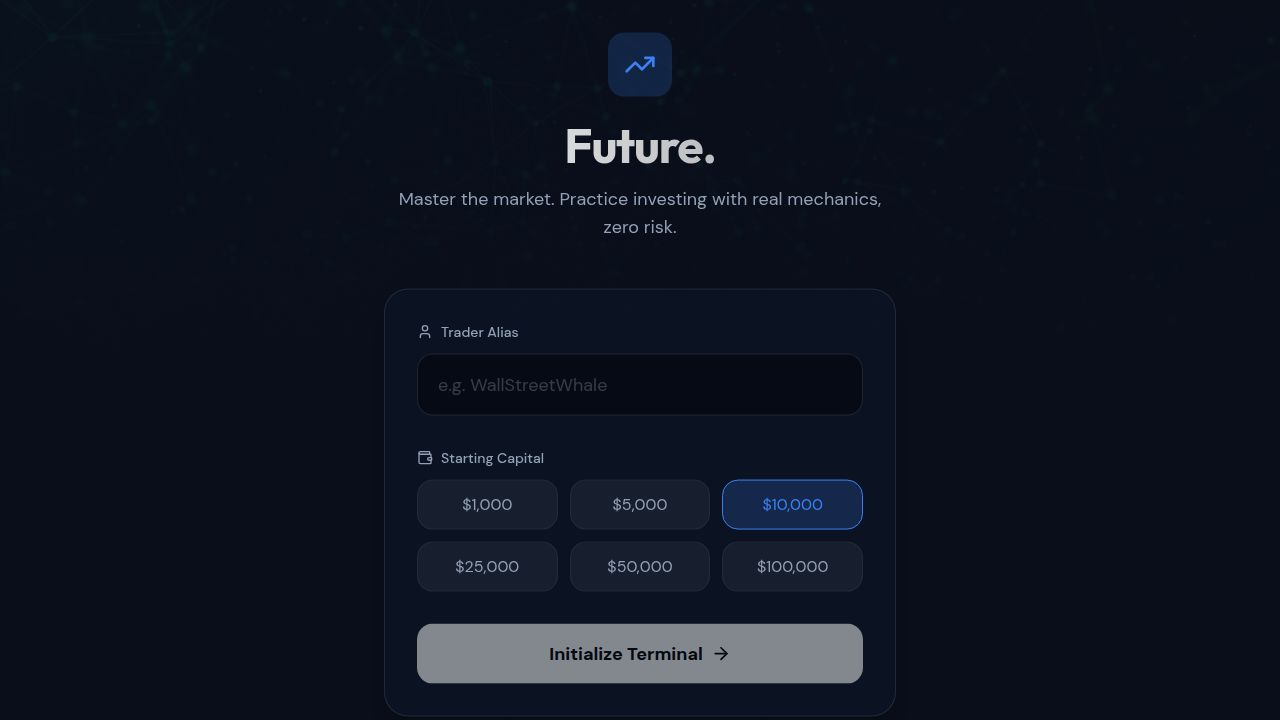
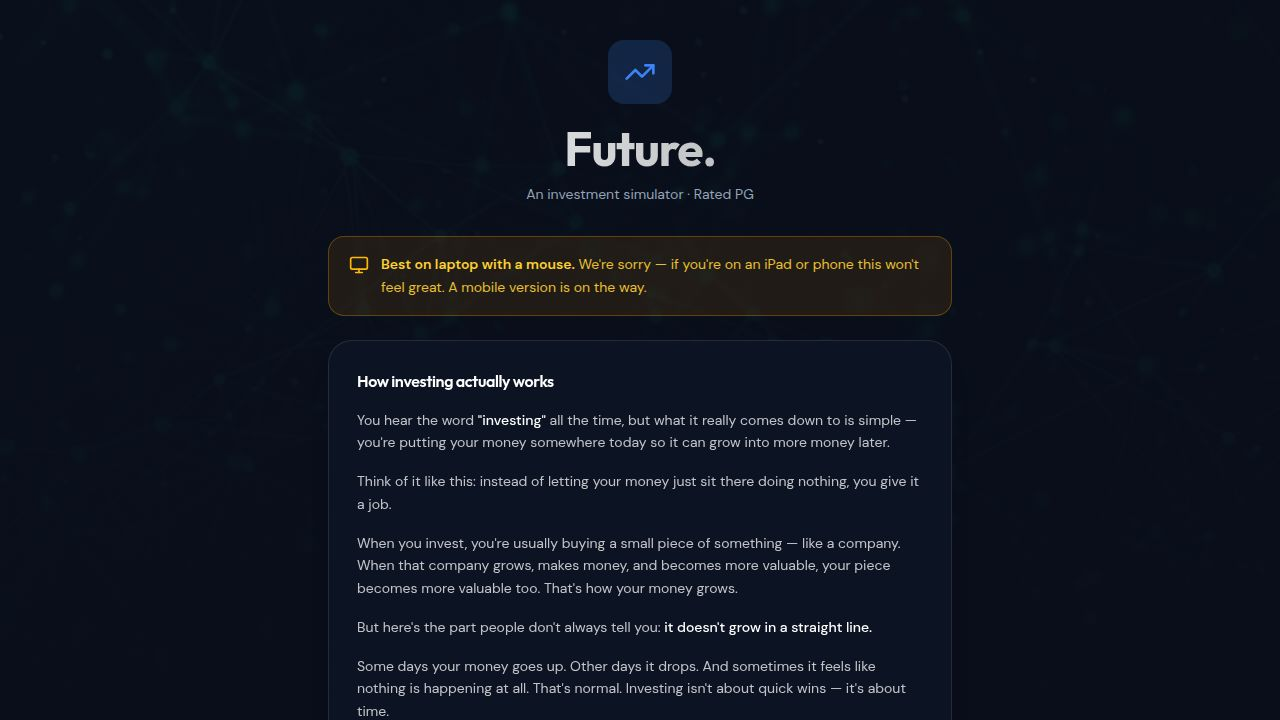
Add introductory screens explaining investing and device compatibility
Introduce two new screens: an intro screen with an investing explanation and a device compatibility notice, followed by the original game setup form.

Replit-Commit-Author: Agent
Replit-Commit-Session-Id: 9f7ad4cb-9b58-4544-9af6-8b12c8bfa14b
Replit-Commit-Checkpoint-Type: full_checkpoint
Replit-Commit-Event-Id: e548f361-a8b8-4ffe-b0bb-6d3fe8db931a
Replit-Commit-Screenshot-Url: https://storage.googleapis.com/screenshot-production-us-central1/1fc55918-5067-4787-9aa8-7074129aaffd/9f7ad4cb-9b58-4544-9af6-8b12c8bfa14b/VYrQRuv
Replit-Helium-Checkpoint-Created: true

diff --git a/artifacts/future/src/pages/Landing.tsx b/artifacts/future/src/pages/Landing.tsx
@@ -1,8 +1,8 @@
 import { useState, useEffect } from "react";
 import { useLocation } from "wouter";
-import { motion } from "framer-motion";
+import { motion, AnimatePresence } from "framer-motion";
 import { setSessionId, getSessionId } from "@/lib/session";
-import { ArrowRight, Wallet, User, TrendingUp, Loader2, Bitcoin, BarChart2, Layers } from "lucide-react";
+import { ArrowRight, Wallet, User, TrendingUp, Loader2, Bitcoin, BarChart2, Layers, Monitor, ChevronRight } from "lucide-react";
 import { formatCurrency, cn } from "@/lib/utils";
 
 const QUICK_AMOUNTS = [1000, 5000, 10000, 25000, 100000];
@@ -21,17 +21,88 @@ const MODE_COLORS: Record<MarketMode, string> = {
   mixed:  "border-purple-500 bg-purple-500/15 text-purple-400 shadow-[0_0_15px_rgba(168,85,247,0.25)]",
 };
 
-export function Landing() {
+function IntroScreen({ onContinue }: { onContinue: () => void }) {
+  return (
+    <motion.div
+      key="intro"
+      initial={{ opacity: 0, y: 20 }}
+      animate={{ opacity: 1, y: 0 }}
+      exit={{ opacity: 0, y: -20 }}
+      transition={{ duration: 0.6 }}
+      className="relative z-10 w-full max-w-2xl px-6 py-10"
+    >
+      <div className="text-center mb-8">
+        <div className="inline-flex items-center justify-center w-16 h-16 rounded-2xl bg-primary/20 text-primary mb-5 shadow-[0_0_30px_rgba(var(--primary),0.3)]">
+          <TrendingUp className="w-8 h-8" />
+        </div>
+        <h1 className="text-5xl font-display font-bold mb-3 tracking-tight text-transparent bg-clip-text bg-gradient-to-r from-white to-white/60">
+          Future.
+        </h1>
+        <p className="text-muted-foreground text-sm">An investment simulator · Rated PG</p>
+      </div>
+
+      {/* Device notice */}
+      <div className="flex items-start gap-3 bg-amber-500/10 border border-amber-500/30 rounded-2xl px-5 py-4 mb-6">
+        <Monitor className="w-5 h-5 text-amber-400 mt-0.5 shrink-0" />
+        <p className="text-sm text-amber-300/90 leading-relaxed">
+          <span className="font-semibold text-amber-300">Best on laptop with a mouse.</span> We're sorry — if you're on an iPad or phone this won't feel great. A mobile version is on the way.
+        </p>
+      </div>
+
+      {/* Investing explainer */}
+      <div className="glass-panel rounded-3xl p-7 space-y-4 text-sm text-white/75 leading-relaxed">
+        <h2 className="text-base font-semibold text-white">How investing actually works</h2>
+
+        <p>You hear the word <span className="text-white font-medium">"investing"</span> all the time, but what it really comes down to is simple — you're putting your money somewhere today so it can grow into more money later.</p>
+
+        <p>Think of it like this: instead of letting your money just sit there doing nothing, you give it a job.</p>
+
+        <p>When you invest, you're usually buying a small piece of something — like a company. When that company grows, makes money, and becomes more valuable, your piece becomes more valuable too. That's how your money grows.</p>
+
+        <p>But here's the part people don't always tell you: <span className="text-white font-medium">it doesn't grow in a straight line.</span></p>
+
+        <p>Some days your money goes up. Other days it drops. And sometimes it feels like nothing is happening at all. That's normal. Investing isn't about quick wins — it's about time.</p>
+
+        <div className="border-l-2 border-primary/50 pl-4 text-white/90 italic">
+          The real power comes from staying in the game.
+        </div>
+
+        <p>Because over time, your returns start earning their own returns. That's how small amounts turn into something meaningful — not overnight, but slowly, almost quietly. You won't notice it day to day, but years later, it adds up.</p>
+
+        <p>You also need to understand this: <span className="text-white font-medium">risk is part of the deal.</span></p>
+
+        <p>If you want your money to grow, you have to accept that it will sometimes go backwards. The mistake most people make is reacting emotionally — pulling out when things drop, and jumping in when things are already high.</p>
+
+        <div className="border-l-2 border-emerald-500/50 pl-4 text-white/90 italic">
+          Investing rewards patience, not panic.
+        </div>
+
+        <p>In real life, it often feels boring. You invest, you wait, you doubt it, you keep going. There's no constant excitement. Most of the time, it's just consistency.</p>
+
+        <p>You're not trying to get rich in a moment — you're building something over time. Something steady. Something that works for you in the background while you live your life.</p>
+
+        <p className="text-white/90">So think of investing as a <span className="text-white font-medium">long-term relationship with your money</span> — one where discipline matters more than timing, and staying consistent matters more than being perfect.</p>
+
+        <p className="text-white font-medium">That's how it really works.</p>
+      </div>
+
+      <button
+        onClick={onContinue}
+        className="mt-6 w-full py-4 rounded-xl bg-white text-black font-bold text-lg hover:bg-white/90 transition-all hover:shadow-[0_0_30px_rgba(255,255,255,0.2)] hover:-translate-y-1 active:translate-y-0 flex items-center justify-center gap-2"
+      >
+        I understand — let's invest <ChevronRight className="w-5 h-5" />
+      </button>
+    </motion.div>
+  );
+}
+
+function SetupScreen() {
   const [, setLocation] = useLocation();
   const [name, setName] = useState("");
   const [cashInput, setCashInput] = useState("10000");
   const [mode, setMode] = useState<MarketMode>("stocks");
   const [isLoading, setIsLoading] = useState(false);
   const [error, setError] = useState<string | null>(null);
-
-  useEffect(() => {
-    if (getSessionId()) setLocation("/dashboard");
-  }, [setLocation]);
 
   const parsedCash = (() => {
     const n = parseFloat(cashInput.replace(/,/g, ""));
@@ -63,6 +134,133 @@ export function Landing() {
   };
 
   return (
+    <motion.div
+      key="setup"
+      initial={{ opacity: 0, y: 20 }}
+      animate={{ opacity: 1, y: 0 }}
+      exit={{ opacity: 0, y: -20 }}
+      transition={{ duration: 0.6 }}
+      className="relative z-10 w-full max-w-xl p-8"
+    >
+      <div className="text-center mb-10">
+        <div className="inline-flex items-center justify-center w-16 h-16 rounded-2xl bg-primary/20 text-primary mb-6 shadow-[0_0_30px_rgba(var(--primary),0.3)]">
+          <TrendingUp className="w-8 h-8" />
+        </div>
+        <h1 className="text-5xl font-display font-bold mb-4 tracking-tight text-transparent bg-clip-text bg-gradient-to-r from-white to-white/60">
+          Future.
+        </h1>
+        <p className="text-lg text-muted-foreground">
+          Invest through 10 years of real market history — 2015 to 2025.
+        </p>
+        <p className="text-sm text-muted-foreground/60 mt-1">
+          Brexit. COVID. Ukraine. ChatGPT. Your portfolio will feel all of it.
+        </p>
+      </div>
+
+      <form onSubmit={handleSubmit} className="glass-panel p-8 rounded-3xl space-y-7">
+
+        {/* Market Mode */}
+        <div className="space-y-3">
+          <label className="text-sm font-medium text-muted-foreground flex items-center gap-2">
+            <Layers className="w-4 h-4" /> Market Type
+          </label>
+          <div className="grid grid-cols-3 gap-3">
+            {MODES.map((m) => (
+              <button key={m.id} type="button" onClick={() => setMode(m.id)}
+                className={`flex flex-col items-center gap-1.5 py-3 px-2 rounded-xl border font-medium transition-all ${
+                  mode === m.id ? MODE_COLORS[m.id] : "bg-white/5 border-white/5 text-muted-foreground hover:bg-white/10"
+                }`}
+              >
+                {m.icon}
+                <span className="text-sm font-semibold">{m.label}</span>
+                <span className="text-[10px] opacity-70 font-normal">{m.sub}</span>
+              </button>
+            ))}
+          </div>
+        </div>
+
+        {/* Trader Name */}
+        <div className="space-y-3">
+          <label className="text-sm font-medium text-muted-foreground flex items-center gap-2">
+            <User className="w-4 h-4" /> Trader Alias
+          </label>
+          <input
+            type="text" value={name} onChange={(e) => setName(e.target.value)}
+            placeholder="e.g. WallStreetWhale"
+            className="w-full bg-black/40 border border-white/10 rounded-xl px-5 py-3.5 text-base focus:outline-none focus:border-primary focus:ring-2 focus:ring-primary/20 transition-all placeholder:text-white/20"
+            required maxLength={20}
+          />
+        </div>
+
+        {/* Starting Capital */}
+        <div className="space-y-3">
+          <label className="text-sm font-medium text-muted-foreground flex items-center gap-2">
+            <Wallet className="w-4 h-4" /> Starting Capital
+          </label>
+          <div className="relative">
+            <span className="absolute left-4 top-1/2 -translate-y-1/2 text-muted-foreground font-bold text-lg">$</span>
+            <input
+              type="text"
+              inputMode="numeric"
+              value={cashInput}
+              onChange={(e) => setCashInput(e.target.value.replace(/[^0-9.]/g, ""))}
+              placeholder="Enter any amount"
+              className={cn(
+                "w-full bg-black/40 border rounded-xl pl-8 pr-4 py-3.5 text-base font-financial focus:outline-none focus:ring-2 transition-all placeholder:text-white/20",
+                parsedCash ? "border-primary/50 focus:border-primary focus:ring-primary/20" : cashInput.length > 0 ? "border-red-500/40 focus:border-red-500 focus:ring-red-500/20" : "border-white/10"
+              )}
+            />
+            {parsedCash && (
+              <span className="absolute right-4 top-1/2 -translate-y-1/2 text-xs text-emerald-400 font-medium">
+                {formatCurrency(parsedCash)}
+              </span>
+            )}
+          </div>
+          {!parsedCash && cashInput.length > 0 && (
+            <p className="text-xs text-red-400">Enter an amount between $100 and $10,000,000</p>
+          )}
+          <div className="flex gap-2 flex-wrap">
+            {QUICK_AMOUNTS.map((amount) => (
+              <button
+                key={amount}
+                type="button"
+                onClick={() => setCashInput(String(amount))}
+                className={cn(
+                  "px-3 py-1.5 rounded-lg border text-xs font-financial transition-all",
+                  parsedCash === amount
+                    ? "bg-primary/20 border-primary text-primary"
+                    : "bg-white/5 border-white/5 text-muted-foreground hover:bg-white/10"
+                )}
+              >
+                {formatCurrency(amount).replace(".00", "")}
+              </button>
+            ))}
+          </div>
+        </div>
+
+        <button
+          type="submit"
+          disabled={!name.trim() || isLoading || !parsedCash}
+          className="w-full py-4 rounded-xl bg-white text-black font-bold text-lg hover:bg-white/90 transition-all hover:shadow-[0_0_30px_rgba(255,255,255,0.2)] hover:-translate-y-1 active:translate-y-0 disabled:opacity-50 disabled:cursor-not-allowed disabled:transform-none flex items-center justify-center gap-2"
+        >
+          {isLoading ? <Loader2 className="w-6 h-6 animate-spin" /> : <>Start Journey <ArrowRight className="w-5 h-5" /></>}
+        </button>
+
+        {error && <p className="text-sm text-red-400 text-center">{error}</p>}
+      </form>
+    </motion.div>
+  );
+}
+
+export function Landing() {
+  const [, setLocation] = useLocation();
+  const [step, setStep] = useState<"intro" | "setup">("intro");
+
+  useEffect(() => {
+    if (getSessionId()) setLocation("/dashboard");
+  }, [setLocation]);
+
+  return (
     <div className="min-h-screen flex items-center justify-center relative overflow-hidden bg-background">
       <div className="absolute inset-0 z-0">
         <img
@@ -73,119 +271,12 @@ export function Landing() {
         <div className="absolute inset-0 bg-gradient-to-b from-background/80 via-background to-background" />
       </div>
 
-      <motion.div
-        initial={{ opacity: 0, y: 20 }}
-        animate={{ opacity: 1, y: 0 }}
-        transition={{ duration: 0.8, ease: "easeOut" }}
-        className="relative z-10 w-full max-w-xl p-8"
-      >
-        <div className="text-center mb-10">
-          <div className="inline-flex items-center justify-center w-16 h-16 rounded-2xl bg-primary/20 text-primary mb-6 shadow-[0_0_30px_rgba(var(--primary),0.3)]">
-            <TrendingUp className="w-8 h-8" />
-          </div>
-          <h1 className="text-5xl font-display font-bold mb-4 tracking-tight text-transparent bg-clip-text bg-gradient-to-r from-white to-white/60">
-            Future.
-          </h1>
-          <p className="text-lg text-muted-foreground">
-            Invest through 10 years of real market history — from 2015 to 2025.
-          </p>
-          <p className="text-sm text-muted-foreground/60 mt-1">
-            Brexit. COVID. Ukraine. ChatGPT. Your portfolio will feel all of it.
-          </p>
-        </div>
-
-        <form onSubmit={handleSubmit} className="glass-panel p-8 rounded-3xl space-y-7">
-
-          {/* Market Mode */}
-          <div className="space-y-3">
-            <label className="text-sm font-medium text-muted-foreground flex items-center gap-2">
-              <Layers className="w-4 h-4" /> Market Type
-            </label>
-            <div className="grid grid-cols-3 gap-3">
-              {MODES.map((m) => (
-                <button key={m.id} type="button" onClick={() => setMode(m.id)}
-                  className={`flex flex-col items-center gap-1.5 py-3 px-2 rounded-xl border font-medium transition-all ${
-                    mode === m.id ? MODE_COLORS[m.id] : "bg-white/5 border-white/5 text-muted-foreground hover:bg-white/10"
-                  }`}
-                >
-                  {m.icon}
-                  <span className="text-sm font-semibold">{m.label}</span>
-                  <span className="text-[10px] opacity-70 font-normal">{m.sub}</span>
-                </button>
-              ))}
-            </div>
-          </div>
-
-          {/* Trader Name */}
-          <div className="space-y-3">
-            <label className="text-sm font-medium text-muted-foreground flex items-center gap-2">
-              <User className="w-4 h-4" /> Trader Alias
-            </label>
-            <input
-              type="text" value={name} onChange={(e) => setName(e.target.value)}
-              placeholder="e.g. WallStreetWhale"
-              className="w-full bg-black/40 border border-white/10 rounded-xl px-5 py-3.5 text-base focus:outline-none focus:border-primary focus:ring-2 focus:ring-primary/20 transition-all placeholder:text-white/20"
-              required maxLength={20}
-            />
-          </div>
-
-          {/* Starting Capital */}
-          <div className="space-y-3">
-            <label className="text-sm font-medium text-muted-foreground flex items-center gap-2">
-              <Wallet className="w-4 h-4" /> Starting Capital
-            </label>
-            <div className="relative">
-              <span className="absolute left-4 top-1/2 -translate-y-1/2 text-muted-foreground font-bold text-lg">$</span>
-              <input
-                type="text"
-                inputMode="numeric"
-                value={cashInput}
-                onChange={(e) => setCashInput(e.target.value.replace(/[^0-9.]/g, ""))}
-                placeholder="Enter any amount"
-                className={cn(
-                  "w-full bg-black/40 border rounded-xl pl-8 pr-4 py-3.5 text-base font-financial focus:outline-none focus:ring-2 transition-all placeholder:text-white/20",
-                  parsedCash ? "border-primary/50 focus:border-primary focus:ring-primary/20" : cashInput.length > 0 ? "border-red-500/40 focus:border-red-500 focus:ring-red-500/20" : "border-white/10"
-                )}
-              />
-              {parsedCash && (
-                <span className="absolute right-4 top-1/2 -translate-y-1/2 text-xs text-emerald-400 font-medium">
-                  {formatCurrency(parsedCash)}
-                </span>
-              )}
-            </div>
-            {!parsedCash && cashInput.length > 0 && (
-              <p className="text-xs text-red-400">Enter an amount between $100 and $10,000,000</p>
-            )}
-            <div className="flex gap-2 flex-wrap">
-              {QUICK_AMOUNTS.map((amount) => (
-                <button
-                  key={amount}
-                  type="button"
-                  onClick={() => setCashInput(String(amount))}
-                  className={cn(
-                    "px-3 py-1.5 rounded-lg border text-xs font-financial transition-all",
-                    parsedCash === amount
-                      ? "bg-primary/20 border-primary text-primary"
-                      : "bg-white/5 border-white/5 text-muted-foreground hover:bg-white/10"
-                  )}
-                >
-                  {formatCurrency(amount).replace(".00", "")}
-                </button>
-              ))}
-            </div>
-          </div>
-
-          <button
-            type="submit"
-            disabled={!name.trim() || isLoading || !parsedCash}
-            className="w-full py-4 rounded-xl bg-white text-black font-bold text-lg hover:bg-white/90 transition-all hover:shadow-[0_0_30px_rgba(255,255,255,0.2)] hover:-translate-y-1 active:translate-y-0 disabled:opacity-50 disabled:cursor-not-allowed disabled:transform-none flex items-center justify-center gap-2"
-          >
-            {isLoading ? <Loader2 className="w-6 h-6 animate-spin" /> : <>Start Journey <ArrowRight className="w-5 h-5" /></>}
-          </button>
-
-          {error && <p className="text-sm text-red-400 text-center">{error}</p>}
-        </form>
-      </motion.div>
+      <AnimatePresence mode="wait">
+        {step === "intro"
+          ? <IntroScreen key="intro" onContinue={() => setStep("setup")} />
+          : <SetupScreen key="setup" />
+        }
+      </AnimatePresence>
     </div>
   );
 }
